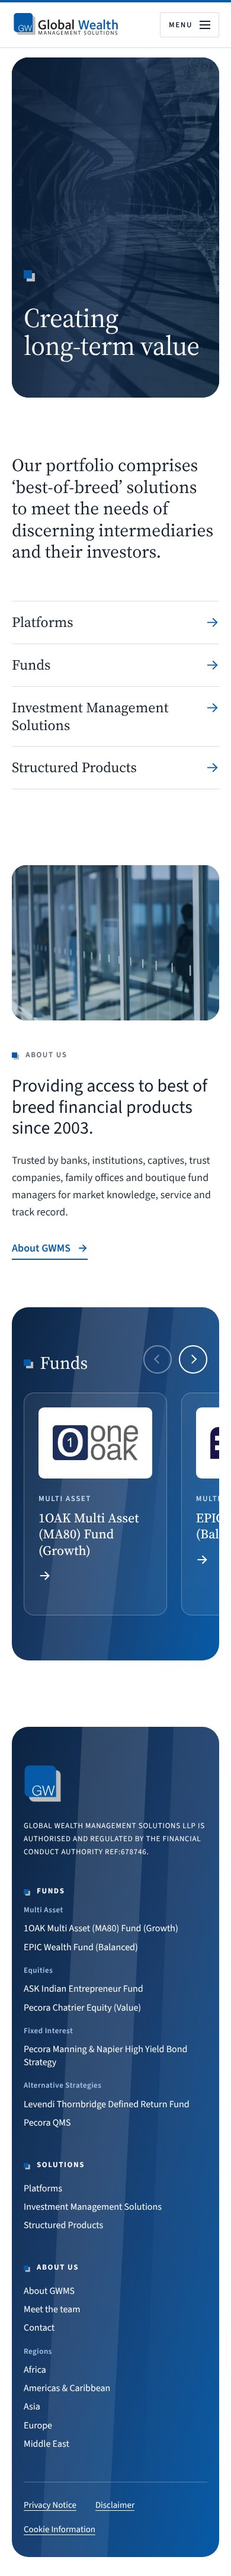
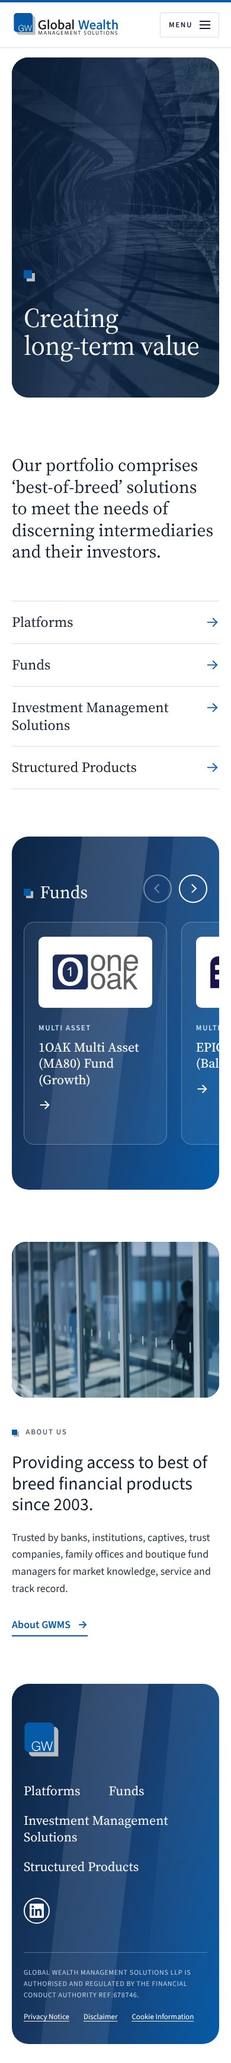
Concept home: Funds before About; slim footer with four links, LinkedIn and small regulatory line

diff --git a/preview/concept-home/index.html b/preview/concept-home/index.html
@@ -118,17 +118,6 @@
     </ul>
   </div>
 </section>
-<section class="about" aria-labelledby="about-title">
-  <div class="container about__grid">
-    <div class="about__photo"><img src="../img/about-glass-1200.webp" srcset="../img/about-glass-700.webp 700w, ../img/about-glass-1200.webp 1200w" sizes="(min-width: 60rem) 45vw, 100vw" width="1200" height="800" alt="" loading="lazy"></div>
-    <div>
-      <p class="label about__label"><span class="motif" aria-hidden="true"></span><span id="about-title">About us</span></p>
-      <p class="about__statement">Providing access to best of breed financial products since 2003.</p>
-      <p class="about__text">Trusted by banks, institutions, captives, trust companies, family offices and boutique fund managers for market knowledge, service and track record.</p>
-      <a class="text-link" href="../about-gwms/index.html">About GWMS</a>
-    </div>
-  </div>
-</section>
 <section class="funds" aria-labelledby="funds-title">
   <div class="frame">
     <div class="funds__panel gradient on-dark">
@@ -158,36 +147,43 @@
     </div>
   </div>
 </section>
+<section class="about" aria-labelledby="about-title">
+  <div class="container about__grid">
+    <div class="about__photo"><img src="../img/about-glass-1200.webp" srcset="../img/about-glass-700.webp 700w, ../img/about-glass-1200.webp 1200w" sizes="(min-width: 60rem) 45vw, 100vw" width="1200" height="800" alt="" loading="lazy"></div>
+    <div>
+      <p class="label about__label"><span class="motif" aria-hidden="true"></span><span id="about-title">About us</span></p>
+      <p class="about__statement">Providing access to best of breed financial products since 2003.</p>
+      <p class="about__text">Trusted by banks, institutions, captives, trust companies, family offices and boutique fund managers for market knowledge, service and track record.</p>
+      <a class="text-link" href="../about-gwms/index.html">About GWMS</a>
+    </div>
+  </div>
+</section>
 </main>
 <footer class="site-footer site-footer--wide on-dark">
   <div class="frame">
     <div class="footer-panel gradient">
-      <div class="footer-grid">
-        <div class="footer-brand">
-          <img src="../img/gw-icon.svg" width="78" height="83" alt="">
-          <p class="footer-reg">GLOBAL WEALTH MANAGEMENT SOLUTIONS LLP IS AUTHORISED AND REGULATED BY THE FINANCIAL CONDUCT AUTHORITY REF:678746.</p>
-        </div>
-        <div class="footer-col"><h2><span class="motif" aria-hidden="true"></span>Funds</h2>
-<h3>Multi Asset</h3>
-<ul><li><a href="../1oak-multi-asset-funds-guided-by-blackrock/index.html">1OAK Multi Asset (MA80) Fund (Growth)</a></li><li><a href="../epic-investment-partners/index.html">EPIC Wealth Fund (Balanced)</a></li></ul>
-<h3>Equities</h3>
-<ul><li><a href="../ask-capital-india-entrepreneur-fund/index.html">ASK Indian Entrepreneur Fund</a></li><li><a href="../pecora-chatrier-equity-value/index.html">Pecora Chatrier Equity (Value)</a></li></ul>
-<h3>Fixed Interest</h3>
-<ul><li><a href="../pecora-manning-napier-high-yield-bond-strategy/index.html">Pecora Manning &amp; Napier High Yield Bond Strategy</a></li></ul>
-<h3>Alternative Strategies</h3>
-<ul><li><a href="../levendi-thornbridge-defined-return-fund/index.html">Levendi Thornbridge Defined Return Fund</a></li><li><a href="../pecora-qms/index.html">Pecora QMS</a></li></ul></div>
-        <div class="footer-col"><h2><span class="motif" aria-hidden="true"></span>Solutions</h2>
-<ul><li><a href="../platforms/index.html">Platforms</a></li><li><a href="../investment-management-solutions/index.html">Investment Management Solutions</a></li><li><a href="../structured-products/index.html">Structured Products</a></li></ul></div>
-        <div class="footer-col"><h2><span class="motif" aria-hidden="true"></span>About us</h2>
-<ul><li><a href="../about-gwms/index.html">About GWMS</a></li><li><a href="../meet-the-team/index.html">Meet the team</a></li><li><a href="../contact/index.html">Contact</a></li></ul>
-<h3>Regions</h3>
-<ul><li><a href="../africa/index.html">Africa</a></li><li><a href="../americas-caribbean/index.html">Americas &amp; Caribbean</a></li><li><a href="../asia/index.html">Asia</a></li><li><a href="../europe/index.html">Europe</a></li><li><a href="../middle-east/index.html">Middle East</a></li></ul></div>
+      <div class="footer-top">
+        <img class="footer-mark" src="../img/gw-icon.svg" width="78" height="83" alt="">
+        <nav class="footer-nav" aria-label="Footer">
+          <ul>
+            <li><a href="../platforms/index.html">Platforms</a></li>
+            <li><a href="../levendi-thornbridge-defined-return-fund/index.html">Funds</a></li>
+            <li><a href="../investment-management-solutions/index.html">Investment Management Solutions</a></li>
+            <li><a href="../structured-products/index.html">Structured Products</a></li>
+          </ul>
+        </nav>
+        <a class="footer-social" href="https://www.linkedin.com/company/gwms/" target="_blank" rel="noopener" aria-label="LinkedIn (opens in a new tab)">
+          <svg viewBox="0 0 24 24" width="24" height="24" aria-hidden="true" focusable="false"><path fill="currentColor" d="M20.447 20.452h-3.554v-5.569c0-1.328-.027-3.037-1.852-3.037-1.853 0-2.136 1.445-2.136 2.939v5.667H9.351V9h3.414v1.561h.046c.477-.9 1.637-1.85 3.37-1.85 3.601 0 4.267 2.37 4.267 5.455v6.286zM5.337 7.433a2.063 2.063 0 1 1 0-4.126 2.063 2.063 0 0 1 0 4.126zM7.119 20.452H3.555V9h3.564v11.452zM22.225 0H1.771C.792 0 0 .774 0 1.729v20.542C0 23.227.792 24 1.771 24h20.451C23.2 24 24 23.227 24 22.271V1.729C24 .774 23.2 0 22.222 0z"/></svg>
+        </a>
       </div>
-      <ul class="footer-legal" aria-label="Legal">
-        <li><a href="../privacy-notice/index.html">Privacy Notice</a></li>
-        <li><a href="../disclaimer/index.html">Disclaimer</a></li>
-        <li><a href="../cookie-information/index.html">Cookie Information</a></li>
-      </ul>
+      <div class="footer-small">
+        <p class="footer-reg">GLOBAL WEALTH MANAGEMENT SOLUTIONS LLP IS AUTHORISED AND REGULATED BY THE FINANCIAL CONDUCT AUTHORITY REF:678746.</p>
+        <ul class="footer-legal" aria-label="Legal">
+          <li><a href="../privacy-notice/index.html">Privacy Notice</a></li>
+          <li><a href="../disclaimer/index.html">Disclaimer</a></li>
+          <li><a href="../cookie-information/index.html">Cookie Information</a></li>
+        </ul>
+      </div>
     </div>
   </div>
 </footer>

diff --git a/preview/css/concept.css b/preview/css/concept.css
@@ -55,7 +55,7 @@
 @media (min-width: 60rem) { .about__grid { grid-template-columns: minmax(0, 6fr) minmax(0, 5fr); gap: var(--s-9); } }
 
 /* ---- Funds carousel ----------------------------------------------------- */
-.funds { padding-block: 0 var(--s-9); }
+.funds { padding-block: 0 var(--s-5); }
 .funds__panel { border-radius: 1.75rem; padding: var(--s-8) 0 var(--s-8) var(--gutter); }
 .funds__head { display: flex; align-items: flex-end; justify-content: space-between; gap: var(--s-5); padding-right: var(--gutter); margin-bottom: var(--s-6); }
 .funds__title { margin: 0; color: #fff; font-size: var(--step-3); font-weight: 400; display: flex; align-items: center; gap: var(--s-4); }
@@ -90,23 +90,21 @@
 .card__name { margin: 0; font-family: var(--font-serif); font-size: var(--step-1); line-height: 1.25; font-weight: 450; }
 .card__name::after { content: "\2192"; content: "\2192" / ""; display: block; margin-top: var(--s-4); font-family: var(--font-sans); }
 
-/* ---- Expanded footer ---------------------------------------------------- */
+/* ---- Footer: four-link navigation + LinkedIn, regulatory line underneath ---------- */
 .site-footer--wide { background: none; padding: 0 0 var(--s-6); color: #d9e4f2; }
 .footer-panel { border-radius: 1.75rem; padding: var(--s-8) var(--gutter) var(--s-6); }
-.footer-grid { display: grid; gap: var(--s-7); max-width: var(--container); margin-inline: auto; }
-.footer-brand { display: flex; flex-direction: column; gap: var(--s-5); align-items: flex-start; }
-.footer-brand img { width: 4rem; height: auto; }
-.footer-reg { margin: 0; font-size: 0.8125rem; letter-spacing: 0.06em; line-height: 1.7; max-width: 30rem; }
-.footer-col h2 { font-family: var(--font-sans); font-size: 0.8125rem; letter-spacing: 0.12em; text-transform: uppercase; font-weight: 700; color: #fff; margin: 0 0 var(--s-4); display: flex; align-items: center; gap: var(--s-3); }
-.footer-col h2 .motif { font-size: 0.6rem; margin-right: 0.15rem; }
-.footer-col h3 { font-family: var(--font-sans); font-size: 0.8125rem; font-weight: 600; letter-spacing: 0.04em; color: #a9c4e6; margin: var(--s-4) 0 var(--s-2); }
-.footer-col ul { list-style: none; margin: 0; padding: 0; }
-.footer-col li { margin: 0; }
-.footer-col a { display: inline-block; padding: 0.3rem 0; color: #fff; text-decoration: none; font-size: 1rem; line-height: 1.35; }
-.footer-col a:hover { text-decoration: underline; text-underline-offset: 0.2em; }
-.footer-col a:focus-visible { outline-color: #fff; }
-.footer-legal { list-style: none; padding-left: 0; max-width: var(--container); margin: var(--s-7) auto 0; padding-top: var(--s-5); border-top: 1px solid rgba(255, 255, 255, 0.28); display: flex; flex-wrap: wrap; gap: var(--s-3) var(--s-6); }
+.footer-top { display: grid; gap: var(--s-6); align-items: center; max-width: var(--container); margin-inline: auto; }
+.footer-mark { width: 3.75rem; height: auto; }
+.footer-nav ul { list-style: none; margin: 0; padding: 0; display: flex; flex-wrap: wrap; gap: var(--s-2) var(--s-7); }
+.footer-nav li { margin: 0; }
+.footer-nav a { display: inline-block; padding: 0.4rem 0; color: #fff; text-decoration: none; font-family: var(--font-serif); font-size: var(--step-1); line-height: 1.3; }
+.footer-nav a:hover { text-decoration: underline; text-underline-offset: 0.25em; }
+.footer-social { display: inline-grid; place-items: center; width: 2.75rem; height: 2.75rem; border: 2px solid #fff; border-radius: 50%; color: #fff; }
+.footer-social:hover { background: rgba(255, 255, 255, 0.16); }
+.footer-social:focus-visible, .footer-nav a:focus-visible, .footer-legal a:focus-visible { outline-color: #fff; }
+.footer-small { max-width: var(--container); margin: var(--s-7) auto 0; padding-top: var(--s-5); border-top: 1px solid rgba(255, 255, 255, 0.28); display: grid; gap: var(--s-3); }
+.footer-reg { margin: 0; font-size: 0.75rem; letter-spacing: 0.06em; line-height: 1.6; color: #c3d3e8; }
+.footer-legal { list-style: none; margin: 0; padding: 0; display: flex; flex-wrap: wrap; gap: var(--s-2) var(--s-5); }
 .footer-legal li { margin: 0; }
-.footer-legal a { color: #fff; font-size: 0.9375rem; text-underline-offset: 0.25em; }
-@media (min-width: 52rem) { .footer-grid { grid-template-columns: 1.2fr 1.6fr 1fr 1fr; } }
-@media (min-width: 52rem) { .footer-col--funds ul.two { columns: 1; } }
+.footer-legal a { color: #fff; font-size: 0.8125rem; text-underline-offset: 0.25em; }
+@media (min-width: 60rem) { .footer-top { grid-template-columns: auto minmax(0, 1fr) auto; gap: var(--s-8); } }

diff --git a/tools/make_preview.py b/tools/make_preview.py
@@ -274,17 +274,6 @@ CONCEPT = f'''<div class="frame">
     </ul>
   </div>
 </section>
-<section class="about" aria-labelledby="about-title">
-  <div class="container about__grid">
-    <div class="about__photo"><img src="/img/about-glass-1200.webp" srcset="/img/about-glass-700.webp 700w, /img/about-glass-1200.webp 1200w" sizes="(min-width: 60rem) 45vw, 100vw" width="1200" height="800" alt="" loading="lazy"></div>
-    <div>
-      <p class="label about__label"><span class="motif" aria-hidden="true"></span><span id="about-title">About us</span></p>
-      <p class="about__statement">Providing access to best of breed financial products since 2003.</p>
-      <p class="about__text">Trusted by banks, institutions, captives, trust companies, family offices and boutique fund managers for market knowledge, service and track record.</p>
-      <a class="text-link" href="/about-gwms">About GWMS</a>
-    </div>
-  </div>
-</section>
 <section class="funds" aria-labelledby="funds-title">
   <div class="frame">
     <div class="funds__panel gradient on-dark">
@@ -298,6 +287,17 @@ CONCEPT = f'''<div class="frame">
       <ul class="cards" data-carousel tabindex="0" aria-label="Funds, scrollable list">
 {cards_html}
       </ul>
+    </div>
+  </div>
+</section>
+<section class="about" aria-labelledby="about-title">
+  <div class="container about__grid">
+    <div class="about__photo"><img src="/img/about-glass-1200.webp" srcset="/img/about-glass-700.webp 700w, /img/about-glass-1200.webp 1200w" sizes="(min-width: 60rem) 45vw, 100vw" width="1200" height="800" alt="" loading="lazy"></div>
+    <div>
+      <p class="label about__label"><span class="motif" aria-hidden="true"></span><span id="about-title">About us</span></p>
+      <p class="about__statement">Providing access to best of breed financial products since 2003.</p>
+      <p class="about__text">Trusted by banks, institutions, captives, trust companies, family offices and boutique fund managers for market knowledge, service and track record.</p>
+      <a class="text-link" href="/about-gwms">About GWMS</a>
     </div>
   </div>
 </section>'''
@@ -315,20 +315,28 @@ def foot_col(title, groups):
 CONCEPT_FOOTER = f'''<footer class="site-footer site-footer--wide on-dark">
   <div class="frame">
     <div class="footer-panel gradient">
-      <div class="footer-grid">
-        <div class="footer-brand">
-          <img src="/img/gw-icon.svg" width="78" height="83" alt="">
-          <p class="footer-reg">{e(REG)}</p>
-        </div>
-        {foot_col("Funds", FUNDS_MENU)}
-        {foot_col("Solutions", [(None, [("Platforms", "/platforms"), ("Investment Management Solutions", "/investment-management-solutions"), ("Structured Products", "/structured-products")])])}
-        {foot_col("About us", [(None, [("About GWMS", "/about-gwms"), ("Meet the team", "/meet-the-team"), ("Contact", "/contact")]), ("Regions", ABOUT_MENU[1][1])])}
+      <div class="footer-top">
+        <img class="footer-mark" src="/img/gw-icon.svg" width="78" height="83" alt="">
+        <nav class="footer-nav" aria-label="Footer">
+          <ul>
+            <li><a href="/platforms">Platforms</a></li>
+            <li><a href="/levendi-thornbridge-defined-return-fund">Funds</a></li>
+            <li><a href="/investment-management-solutions">Investment Management Solutions</a></li>
+            <li><a href="/structured-products">Structured Products</a></li>
+          </ul>
+        </nav>
+        <a class="footer-social" href="https://www.linkedin.com/company/gwms/" target="_blank" rel="noopener" aria-label="LinkedIn (opens in a new tab)">
+          <svg viewBox="0 0 24 24" width="24" height="24" aria-hidden="true" focusable="false"><path fill="currentColor" d="M20.447 20.452h-3.554v-5.569c0-1.328-.027-3.037-1.852-3.037-1.853 0-2.136 1.445-2.136 2.939v5.667H9.351V9h3.414v1.561h.046c.477-.9 1.637-1.85 3.37-1.85 3.601 0 4.267 2.37 4.267 5.455v6.286zM5.337 7.433a2.063 2.063 0 1 1 0-4.126 2.063 2.063 0 0 1 0 4.126zM7.119 20.452H3.555V9h3.564v11.452zM22.225 0H1.771C.792 0 0 .774 0 1.729v20.542C0 23.227.792 24 1.771 24h20.451C23.2 24 24 23.227 24 22.271V1.729C24 .774 23.2 0 22.222 0z"/></svg>
+        </a>
       </div>
-      <ul class="footer-legal" aria-label="Legal">
-        <li><a href="/privacy-notice">Privacy Notice</a></li>
-        <li><a href="/disclaimer">Disclaimer</a></li>
-        <li><a href="/cookie-information">Cookie Information</a></li>
-      </ul>
+      <div class="footer-small">
+        <p class="footer-reg">{e(REG)}</p>
+        <ul class="footer-legal" aria-label="Legal">
+          <li><a href="/privacy-notice">Privacy Notice</a></li>
+          <li><a href="/disclaimer">Disclaimer</a></li>
+          <li><a href="/cookie-information">Cookie Information</a></li>
+        </ul>
+      </div>
     </div>
   </div>
 </footer>'''

diff --git a/docs/08-concept-home.md b/docs/08-concept-home.md
@@ -20,3 +20,9 @@ Everything else is an existing label: "About us", "Funds", "Platforms", group na
 5. Gradient band: static here. Planned slow drift toward the top-right and back (see `07-decisions-log.md`) once approved.
 6. Carousel: manual arrows only, no autoplay, scroll-snap, works without JavaScript as a swipeable list. Tested only visually so far — accessibility/keyboard scans not yet run on this page.
 7. Hero uses the existing walkway photo with a navy veil; the white-on-photo contrast has not been measured.
+
+## Revision 2 (per your feedback)
+- Order is now: hero → statement + index → **Funds** → **About** → footer.
+- Footer navigation is only Platforms · Funds · Investment Management Solutions · Structured Products, plus a LinkedIn icon (links to the existing https://www.linkedin.com/company/gwms/, opens in a new tab).
+- The FCA statement sits underneath in small type. I kept the **Privacy Notice / Disclaimer / Cookie Information** links on that bottom line, because the policy pages must stay reachable from every page — say if you want them removed or moved.
+- Fund logos are placeholders until you supply updated ones.
